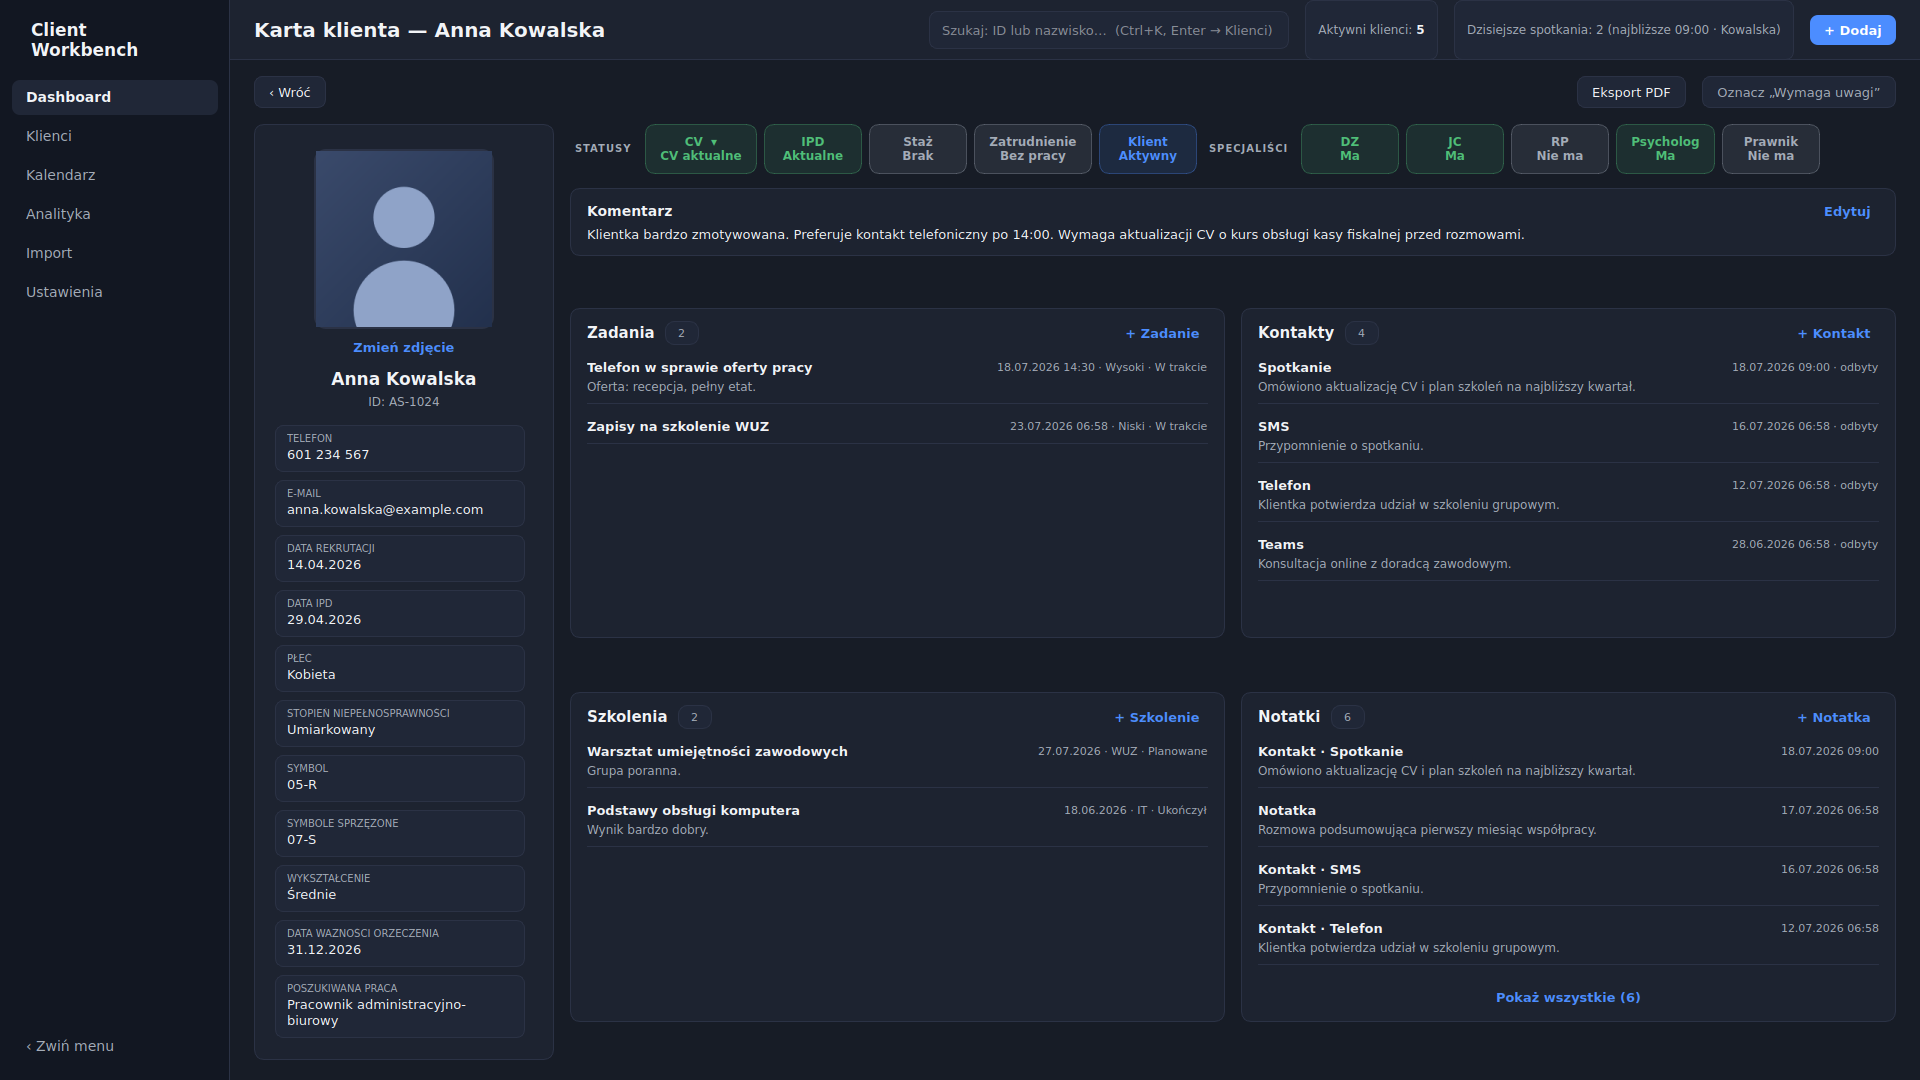
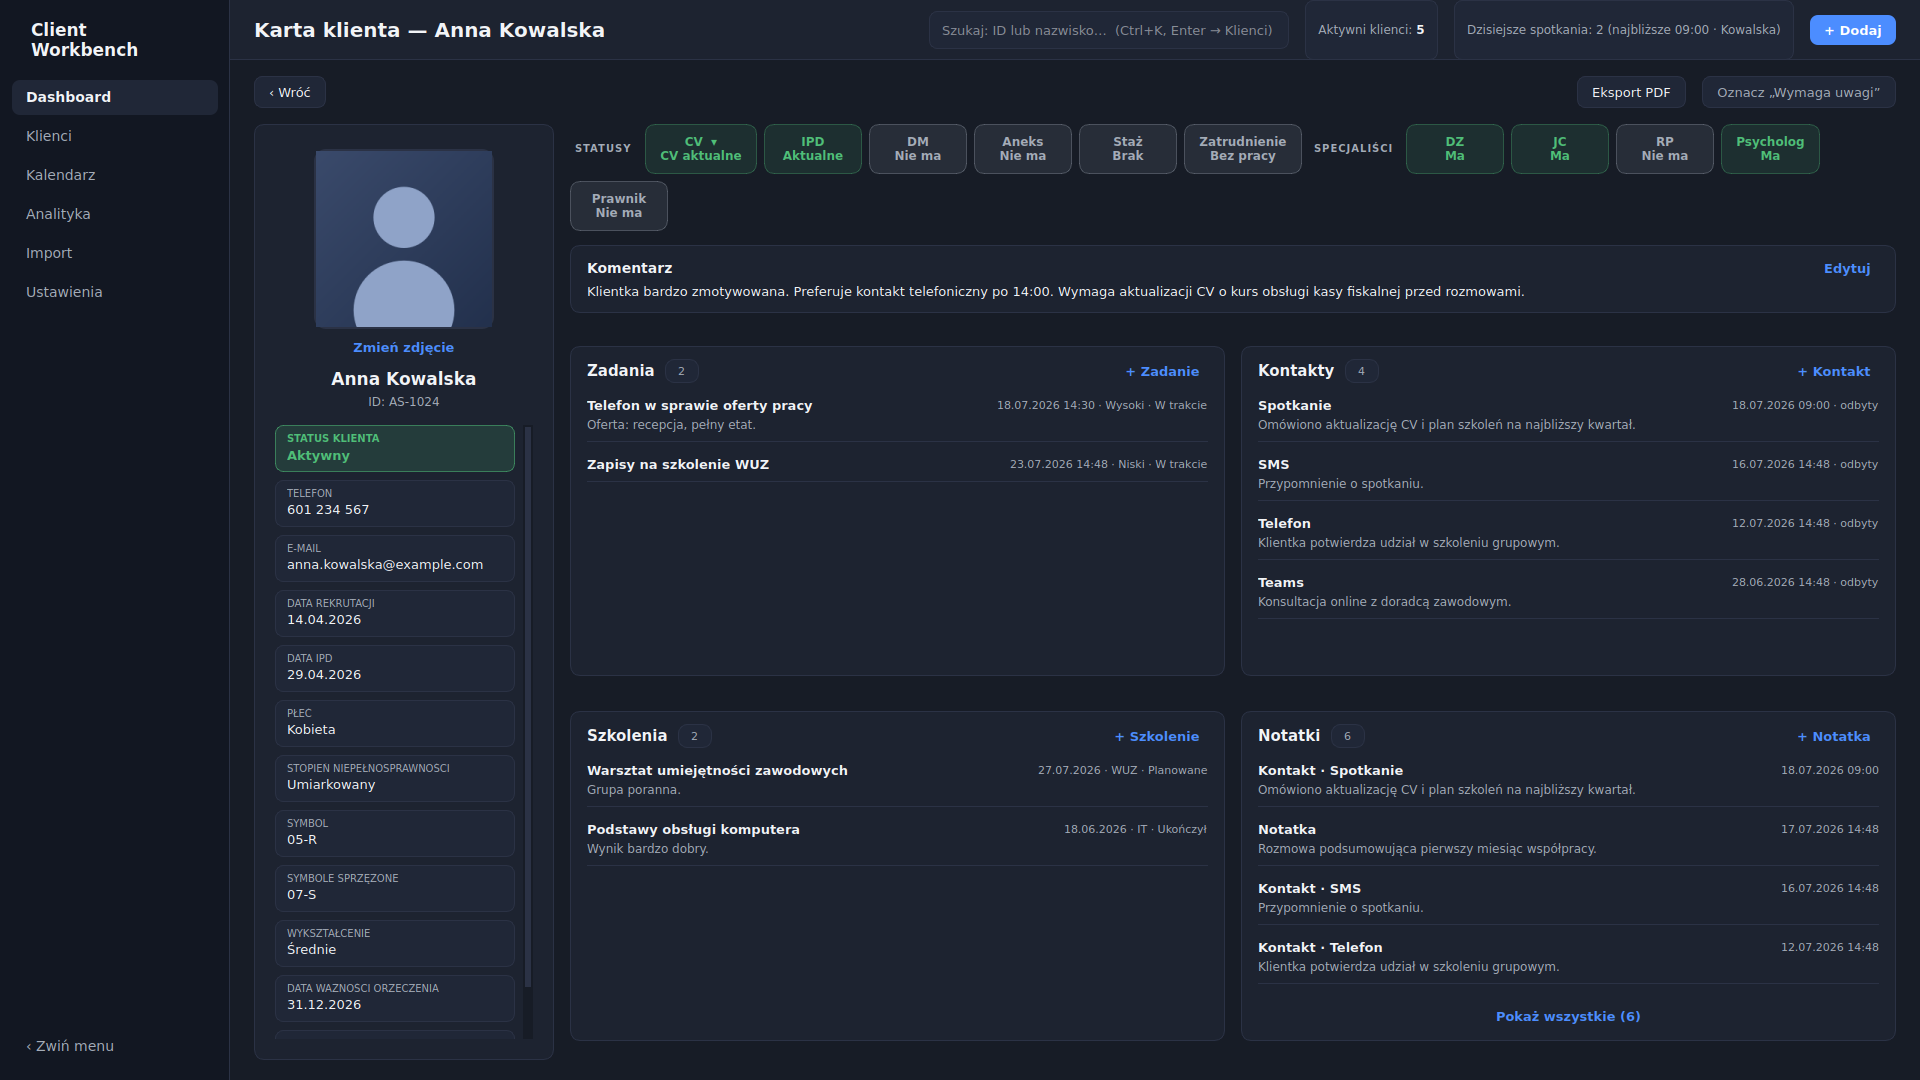
Karta klienta: status jako pole danych, przyciski DM/Aneks, naprawa licznika klientów
- Status klienta przeniesiony z paska statusów do lewej kolumny jako pierwsze
  pole (nad telefonem); całe pole zmienia kolor, klik zmienia aktywny/zamknięty.
- Nowe przyciski DM i Aneks w rzędzie statusów (za IPD) — przełącznik
  zrobiony/nie ma (zielony/szary), z nowymi polami dm/aneks + migracja bazy.
- Import pomija wiersze-widma (sam numer LP bez nazwiska i danych), a listy
  oraz licznik Aktywni klienci pomijają puste rekordy — poprawny wynik (66 zamiast 125).

Claude-Session: https://claude.ai/code/session_0111JaRPMQvjsJitfGePPiND

diff --git a/src/ui/pages/client_card_page.py b/src/ui/pages/client_card_page.py
@@ -39,7 +39,7 @@ from ui.dialogs.entry_dialogs import DIALOGS
 from ui.dialogs.module_view import ModuleViewDialog
 from ui.styles.theme import Palette
 from ui.widgets.flow_layout import FlowLayout
-from ui.widgets.pills import MenuPill, QuickStatusPill, YesNoFlag
+from ui.widgets.pills import MenuPill, QuickStatusPill, YesNoFlag, with_alpha
 
 LEFT_COLUMN_WIDTH = 300
 PHOTO_SIZE = 180
@@ -207,6 +207,9 @@ class ClientCardPage(QWidget):
         assert c is not None
         p = self._palette
         _clear_layout(self._info_layout)
+        # status klienta jako pierwsze pole (nad telefonem) — całe pole zmienia kolor,
+        # klik zmienia status; wygląd spójny z pozostałymi ramkami danych
+        self._info_layout.addWidget(self._client_status_box())
         # każdy zestaw (etykieta + wartość) w osobnej, subtelnej ramce (#6)
         for label, value in self._basic_data_pairs():
             box = QFrame()
@@ -228,6 +231,47 @@ class ClientCardPage(QWidget):
             bl.addWidget(value_lbl)
             self._info_layout.addWidget(box)
         self._info_layout.setSpacing(8)
+
+    def _client_status_box(self) -> QFrame:
+        """Pole „Status klienta" — całe obramowane pole w kolorze statusu, klik zmienia stan."""
+        c = self._client
+        assert c is not None
+        p = self._palette
+        active = c.client_status == "aktywny"
+        color = p.green if active else p.text_muted
+        box = QFrame()
+        box.setCursor(Qt.CursorShape.PointingHandCursor)
+        box.setToolTip("Kliknij, aby zmienić status (aktywny / zamknięty)")
+        box.setStyleSheet(
+            f"QFrame {{ background: {with_alpha(color, 0.16)};"
+            f" border: 1px solid {with_alpha(color, 0.55)}; border-radius: 8px; }}"
+        )
+        bl = QVBoxLayout(box)
+        bl.setContentsMargins(11, 7, 11, 8)
+        bl.setSpacing(2)
+        caption = QLabel("STATUS KLIENTA")
+        caption.setStyleSheet(
+            f"color: {color}; font-size: 10px; text-transform: uppercase;"
+            " font-weight: 700; border: none; background: transparent;"
+        )
+        value_lbl = QLabel(CLIENT_STATUS_LABELS[c.client_status])
+        value_lbl.setStyleSheet(
+            f"font-size: 13px; font-weight: 700; color: {color};"
+            " border: none; background: transparent;"
+        )
+        bl.addWidget(caption)
+        bl.addWidget(value_lbl)
+        box.mousePressEvent = lambda _e: self._toggle_client_status()
+        return box
+
+    def _toggle_client_status(self) -> None:
+        c = self._client
+        if c is None:
+            return
+        c.client_status = "zamkniety" if c.client_status == "aktywny" else "aktywny"
+        self._store.update_client(c)
+        self._fill_left_info()   # odśwież kolor pola
+        self._on_data_changed()  # odśwież licznik „Aktywni klienci" i listę
 
     # ------------------------------------------------------------------
     def show_client(self, client_id: int) -> None:
@@ -330,13 +374,28 @@ class ClientCardPage(QWidget):
 
         add_pill("IPD", ["aktualne", "nieaktualne"], IPD_STATUS_LABELS, client.ipd_status,
                  {"aktualne": p.green, "nieaktualne": p.red}, "ipd_status")
+
+        # DM / Aneks — przełącznik „zrobiony / nie ma" (za IPD), zielony/szary
+        def add_done_flag(title: str, attr: str) -> None:
+            def on_toggle(done: bool) -> None:
+                setattr(client, attr, "Tak" if done else "Nie")
+                save()
+
+            done = str(getattr(client, attr)).strip().lower() in (
+                "tak", "1", "true", "x", "jest", "zrobiony", "zrobione", "zrobiona"
+            )
+            self._status_flow.addWidget(
+                YesNoFlag(title, done, on_toggle, p, yes_label="Zrobiony", no_label="Nie ma")
+            )
+
+        add_done_flag("DM", "dm")
+        add_done_flag("Aneks", "aneks")
+
         add_pill("Staż", ["brak", "w_trakcie"], INTERNSHIP_LABELS, client.internship_status,
                  {"brak": p.text_muted, "w_trakcie": p.purple}, "internship_status")
         add_pill("Zatrudnienie", ["bez_pracy", "zatrudniony"], EMPLOYMENT_LABELS,
                  client.employment_status,
                  {"bez_pracy": p.text_muted, "zatrudniony": p.green}, "employment_status")
-        add_pill("Klient", ["aktywny", "zamkniety"], CLIENT_STATUS_LABELS, client.client_status,
-                 {"aktywny": p.accent, "zamkniety": p.text_muted}, "client_status")
 
         # nagłówek grupy cech tak/nie
         caption("SPECJALIŚCI")

diff --git a/tests/test_import_backup_security.py b/tests/test_import_backup_security.py
@@ -134,6 +134,54 @@ def test_import_dates_with_time_ranges(store, tmp_path):
     assert pv.new[0].ipd_date == date(2026, 4, 8)
 
 
+def test_import_skips_phantom_id_only_rows(store, tmp_path):
+    """Wiersze z samym numerem LP (bez nazwiska i danych) nie tworzą klientów-widm."""
+    from importers.xlsx_import import build_preview
+
+    xlsx = tmp_path / "widma.xlsx"
+    _make_xlsx(xlsx, [
+        ["ASII LP.", "IMIĘ", "NAZWISKO", "TELEFON"],
+        ["101", "Jan", "Nowak", "111"],
+        ["102", "Anna", "Kowalska", "222"],
+        ["103", "", "", ""],   # sam numer LP — widmo, pomijamy
+        ["104", "", "", ""],   # sam numer LP — widmo, pomijamy
+        ["105", "", "", "500600700"],  # bez nazwiska, ale z telefonem — zostaje
+    ])
+    pv = build_preview(store, xlsx)
+    assert [c.external_id for c in pv.new] == ["101", "102", "105"]
+    assert pv.new[-1].last_name == "(bez nazwiska)"
+
+
+def test_blank_clients_excluded_from_list_and_count(store):
+    """Klienci-widma (bez nazwiska i danych) nie liczą się na liście ani w liczniku aktywnych."""
+    from models.entities import Client
+
+    before = len(store.clients)
+    before_active = len(store.active_clients())
+
+    store.add_client(Client(id=0, external_id="Z-999", first_name="", last_name=""))  # widmo
+    assert len(store.clients) == before
+    assert len(store.active_clients()) == before_active
+
+    # realny klient bez nazwiska, ale z telefonem — widoczny i liczony
+    store.add_client(Client(id=0, external_id="Z-1000", first_name="", last_name="", phone="500"))
+    assert len(store.clients) == before + 1
+    assert len(store.active_clients()) == before_active + 1
+
+
+def test_dm_aneks_roundtrip(store):
+    """Nowe pola DM/Aneks zapisują się i odczytują z bazy."""
+    from models.entities import Client
+
+    cid = store.add_client(
+        Client(id=0, external_id="DA-1", first_name="Test", last_name="Aneksowy",
+               dm="Tak", aneks="Nie")
+    )
+    got = store.client(cid)
+    assert got.dm == "Tak"
+    assert got.aneks == "Nie"
+
+
 def test_import_apply_does_not_touch_work_data(store, tmp_path):
     from importers.xlsx_import import build_preview
 

diff --git a/src/repositories/clients.py b/src/repositories/clients.py
@@ -10,7 +10,7 @@ from repositories.mappers import client_from_row, d_to_db, now_db, photo_to_db
 _FIELDS = (
     "external_id, first_name, last_name, phone, email, recruitment_date, ipd_date, "
     "cv_status, ipd_status, employment_status, internship_status, client_status, "
-    "dz, jc, rp, psychologist, lawyer, gender, disability_degree, disability_symbol, "
+    "dm, aneks, dz, jc, rp, psychologist, lawyer, gender, disability_degree, disability_symbol, "
     "combined_symbols, education, certificate_valid_until, desired_job, import_comment, "
     "requires_attention, attention_note, photo_path"
 )
@@ -36,6 +36,7 @@ def _values(c: Client) -> tuple:
         c.external_id, c.first_name, c.last_name, c.phone or None, c.email or None,
         d_to_db(c.recruitment_date), d_to_db(c.ipd_date),
         c.cv_status, c.ipd_status, c.employment_status, c.internship_status, c.client_status,
+        c.dm or None, c.aneks or None,
         c.dz or None, c.jc or None, c.rp or None, c.psychologist or None, c.lawyer or None,
         c.gender or None, c.disability_degree or None, c.disability_symbol or None,
         c.combined_symbols or None, c.education or None, d_to_db(c.certificate_valid_until),
@@ -64,7 +65,11 @@ class ClientRepository:
             " THEN CAST(external_id AS INTEGER) ELSE 999999999 END,"
             " external_id, last_name, first_name"
         )
-        return [client_from_row(r) for r in self._conn.execute(sql, params)]
+        # pomiń wiersze-widma (sam numer LP bez nazwiska i danych) z importu
+        return [
+            c for c in (client_from_row(r) for r in self._conn.execute(sql, params))
+            if not c.is_blank
+        ]
 
     def get(self, client_id: int) -> Client:
         row = self._conn.execute("SELECT * FROM clients WHERE id = ?", (client_id,)).fetchone()

diff --git a/src/ui/widgets/pills.py b/src/ui/widgets/pills.py
@@ -148,16 +148,26 @@ class MenuPill(QPushButton):
 
 
 class YesNoFlag(QPushButton):
-    """Dwustanowy przełącznik ma/nie ma — 2 linie, zielony (ma) / czerwony (nie ma)."""
+    """Dwustanowy przełącznik — 2 linie, zielony (tak) / szary (nie); etykiety konfigurowalne."""
 
-    def __init__(self, title: str, has: bool, on_toggle: Callable[[bool], None], palette: Palette) -> None:
+    def __init__(
+        self,
+        title: str,
+        has: bool,
+        on_toggle: Callable[[bool], None],
+        palette: Palette,
+        yes_label: str = "Ma",
+        no_label: str = "Nie ma",
+    ) -> None:
         super().__init__()
         self._title = title
         self._has = has
         self._palette = palette
         self._on_toggle = on_toggle
+        self._yes_label = yes_label
+        self._no_label = no_label
         self.setCursor(Qt.CursorShape.PointingHandCursor)
-        self.setToolTip(f"{title}: kliknij, aby przełączyć „ma / nie ma”")
+        self.setToolTip(f"{title}: kliknij, aby przełączyć „{yes_label} / {no_label}”")
         self.setFixedHeight(STATUS_PILL_HEIGHT)
         self.setMinimumWidth(STATUS_PILL_MIN_WIDTH)
         self.clicked.connect(self._flip)
@@ -169,7 +179,7 @@ class YesNoFlag(QPushButton):
         self._refresh()
 
     def _refresh(self) -> None:
-        # „ma" = kolor pozytywny, „nie ma" = szary (spokojna, dwubarwna paleta)
+        # stan pozytywny = kolor pozytywny, negatywny = szary (spokojna, dwubarwna paleta)
         color = self._palette.green if self._has else self._palette.text_muted
-        self.setText(f"{self._title}\n{'Ma' if self._has else 'Nie ma'}")
+        self.setText(f"{self._title}\n{self._yes_label if self._has else self._no_label}")
         self.setStyleSheet(_pill_qss(color))

diff --git a/src/models/entities.py b/src/models/entities.py
@@ -149,6 +149,8 @@ class Client:
     employment_status: str = "bez_pracy"
     internship_status: str = "brak"
     client_status: str = "aktywny"
+    dm: str = ""
+    aneks: str = ""
     dz: str = ""
     jc: str = ""
     rp: str = ""
@@ -169,3 +171,37 @@ class Client:
     @property
     def full_name(self) -> str:
         return f"{self.first_name} {self.last_name}"
+
+    @property
+    def has_name(self) -> bool:
+        """Czy klient ma prawdziwe imię/nazwisko (placeholder „(bez nazwiska)” nie liczy się)."""
+        first = (self.first_name or "").strip()
+        last = (self.last_name or "").strip()
+        if first:
+            return True
+        return bool(last) and last.lower() != "(bez nazwiska)"
+
+    @property
+    def is_blank(self) -> bool:
+        """Wiersz-widmo: brak nazwiska i jakichkolwiek danych (np. sam numer LP z importu).
+
+        Klient bez nazwiska, ale z telefonem/datami/innymi danymi, NIE jest widmem.
+        """
+        if self.has_name:
+            return False
+        return not any(
+            (
+                (self.phone or "").strip(),
+                (self.email or "").strip(),
+                self.recruitment_date,
+                self.ipd_date,
+                self.certificate_valid_until,
+                (self.desired_job or "").strip(),
+                (self.disability_degree or "").strip(),
+                (self.disability_symbol or "").strip(),
+                (self.combined_symbols or "").strip(),
+                (self.education or "").strip(),
+                (self.gender or "").strip(),
+                (self.import_comment or "").strip(),
+            )
+        )

diff --git a/src/importers/xlsx_import.py b/src/importers/xlsx_import.py
@@ -263,9 +263,17 @@ def build_preview(store, path: str | Path) -> ImportPreview:
 
         existing = store.find_by_external_id(ext)
         if existing is None:
-            # klient z poprawnym ID zawsze wchodzi; brak nazwiska uzupełniamy placeholderem,
-            # żeby nie powstawały „dziury" w numeracji
-            if not str(values.get("first_name", "")).strip() and not str(values.get("last_name", "")).strip():
+            has_name = bool(
+                str(values.get("first_name", "")).strip()
+                or str(values.get("last_name", "")).strip()
+            )
+            has_data = any(k not in ("external_id", "_row") for k in values)
+            # wiersz z samym numerem LP (bez nazwiska i bez danych) to „widmo" z arkusza —
+            # pomijamy, żeby nie tworzyć pustych rekordów zawyżających licznik klientów
+            if not has_name and not has_data:
+                continue
+            # rekord z danymi, ale bez nazwiska — zostaje, z czytelnym placeholderem
+            if not has_name:
                 values["last_name"] = "(bez nazwiska)"
             preview.new.append(_client_from_values(values))
         else:

diff --git a/src/repositories/mappers.py b/src/repositories/mappers.py
@@ -50,6 +50,14 @@ def photo_from_db(rel_path: Optional[str]) -> Optional[str]:
     return str(p if p.is_absolute() else data_dir() / p)
 
 
+def _col(row: sqlite3.Row, key: str, default: str = "") -> str:
+    """Bezpieczny odczyt kolumny — zwraca default, gdy kolumny brak (starsza baza)."""
+    try:
+        return row[key] or default
+    except (IndexError, KeyError):
+        return default
+
+
 def client_from_row(row: sqlite3.Row) -> Client:
     return Client(
         id=row["id"],
@@ -65,6 +73,8 @@ def client_from_row(row: sqlite3.Row) -> Client:
         employment_status=row["employment_status"],
         internship_status=row["internship_status"],
         client_status=row["client_status"],
+        dm=_col(row, "dm"),
+        aneks=_col(row, "aneks"),
         dz=row["dz"] or "",
         jc=row["jc"] or "",
         rp=row["rp"] or "",

diff --git a/src/database/connection.py b/src/database/connection.py
@@ -18,5 +18,14 @@ def open_connection(path: Path | None = None) -> sqlite3.Connection:
     conn.execute("PRAGMA foreign_keys = ON")
     conn.execute("PRAGMA journal_mode = WAL")
     conn.executescript(SCHEMA_PATH.read_text(encoding="utf-8"))
+    _migrate(conn)
     conn.commit()
     return conn
+
+
+def _migrate(conn: sqlite3.Connection) -> None:
+    """Lekkie migracje: dodaje brakujące kolumny do istniejących baz (bez utraty danych)."""
+    existing = {row["name"] for row in conn.execute("PRAGMA table_info(clients)")}
+    for column in ("dm", "aneks"):
+        if column not in existing:
+            conn.execute(f"ALTER TABLE clients ADD COLUMN {column} TEXT")
